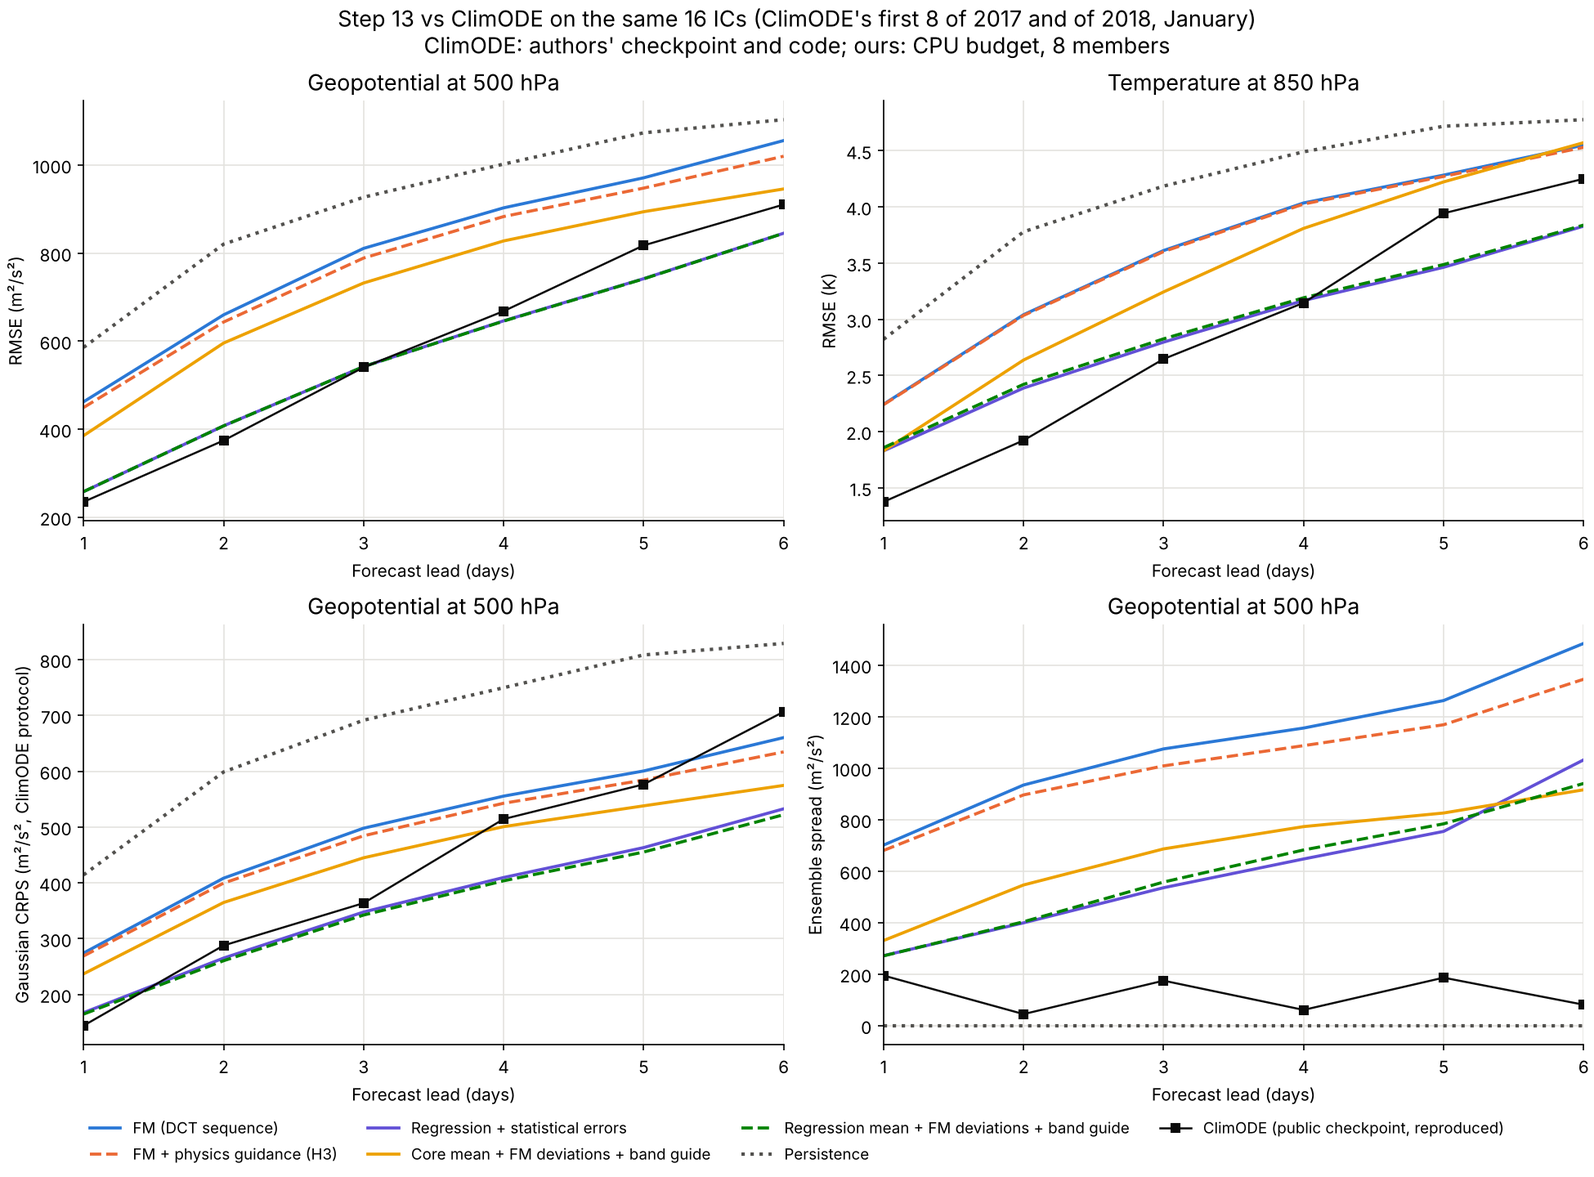
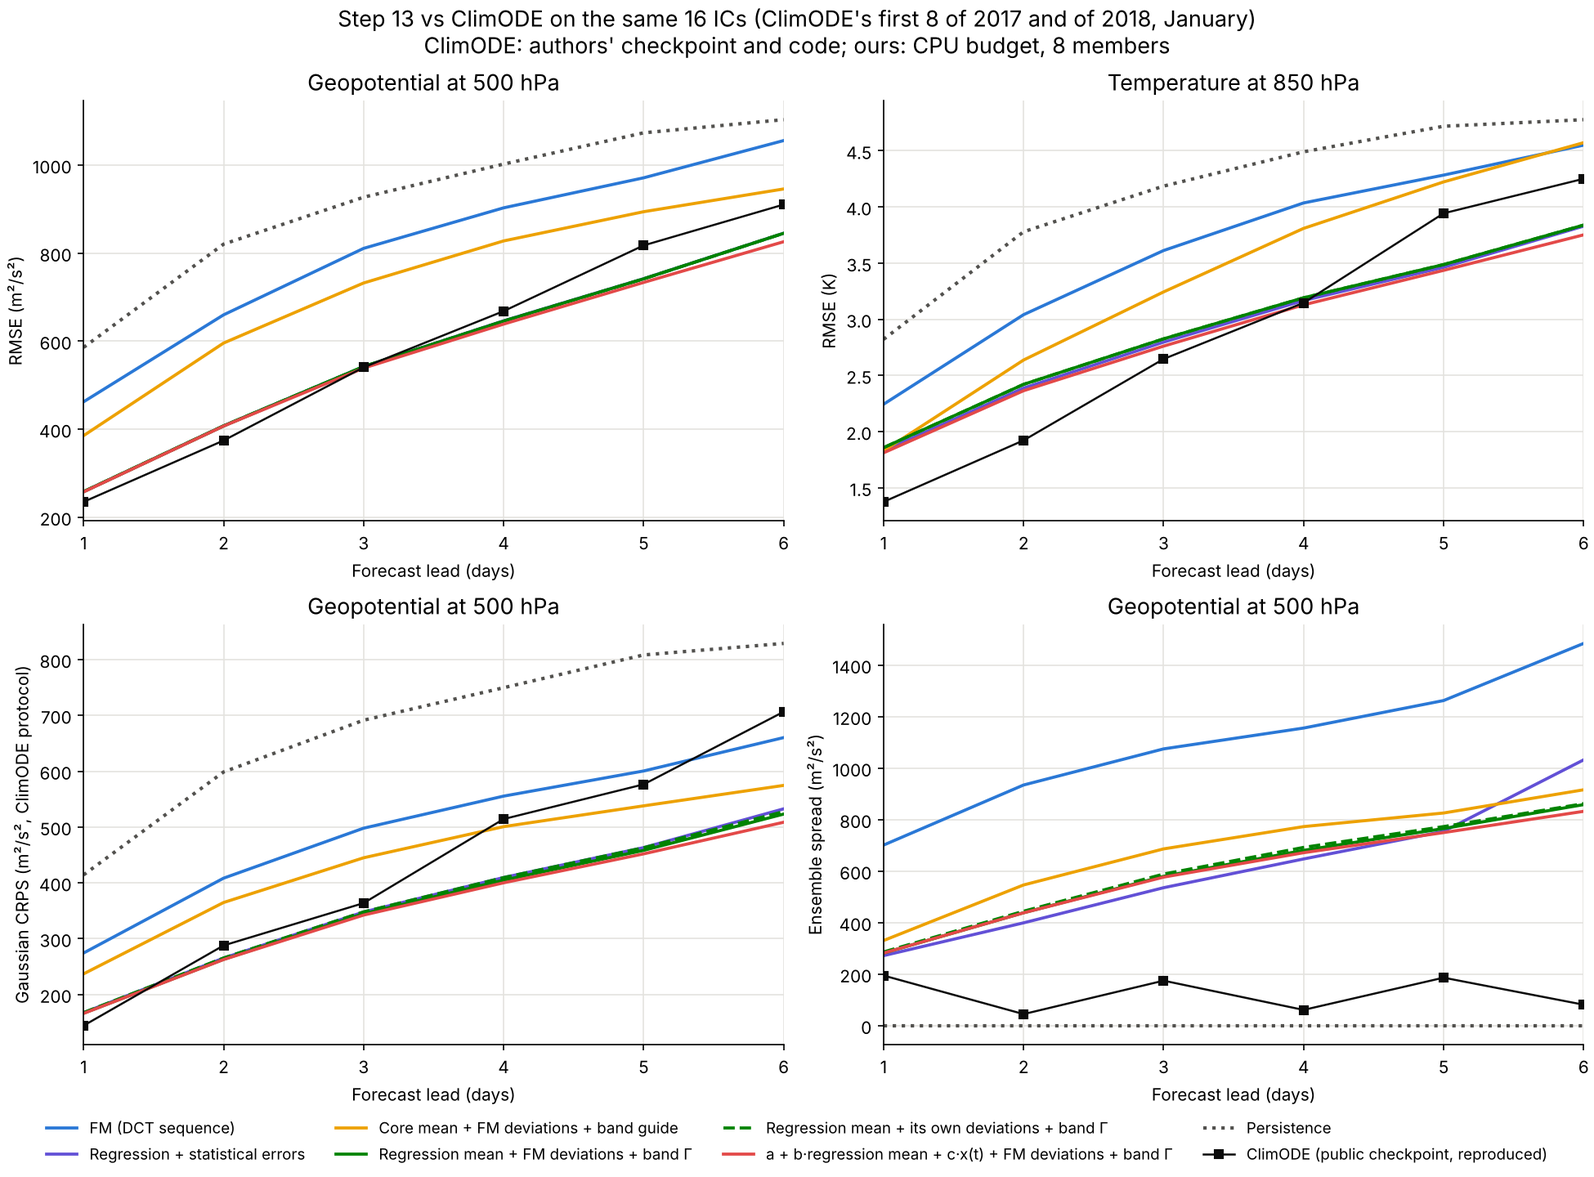
Step 13: regression-mean arms, FM deviation control, regm_band as reported model
Doc section 4.2: operator retrained on the regression ensemble (no gain on the
mean, u10/v10 only), energy guide on regression members, MBM regression mean
(regm), and the control that puts the same closed-form band Gamma on the
regression's own deviations. FM deviations win at every lead and variable
(bootstrap) by a small margin and carry the z-t and lag-24 structure.
Tables 5.1 and 5.2 gain regm_band; figures re-rendered; the system diagram
now draws regm_band as the best ensemble.

Claude-Session: https://claude.ai/code/session_01M3qvwPDycdS2QFhYHMzru8

diff --git a/scripts/plot_step13_system.py b/scripts/plot_step13_system.py
@@ -1,7 +1,7 @@
 """Step 13 training system diagram (docs/step13/fig_system.png): the three stages as built in
 run_step13_pinn.py, run_step13_seqfm.py, run_step13_guide.py and run_step13_operator.py.
-``--best`` draws fig_system_best.png: the same system with the parts the best ensemble (reg_band:
-regression mean + FM + PINN deviations + closed-form band Gamma) does not use faded.
+``--best`` draws fig_system_best.png: the same system with the parts the best ensemble (regm_band:
+a + b * regression mean + c * x(t), FM + PINN deviations, closed-form band Gamma) does not use faded.
 
     python scripts/plot_step13_system.py --out docs/step13 [--best]
 """
@@ -91,7 +91,7 @@ def stage_band(ax, y0, y1, n, name, color):
 def main(argv=None):
     p = argparse.ArgumentParser()
     p.add_argument("--out", default="docs/step13")
-    p.add_argument("--best", action="store_true", help="fade what the best ensemble (reg_band) does not use")
+    p.add_argument("--best", action="store_true", help="fade what the best ensemble (regm_band) does not use")
     a = p.parse_args(argv)
     best = FADE["on"] = a.best
     fig = plt.figure(figsize=(20, 22.4))
@@ -101,7 +101,7 @@ def main(argv=None):
     ax.axis("off")
 
     ax.text(4, 108.6, "Sequence PG-CFM", fontsize=30, weight="bold", color=TITLE, va="center")
-    ax.text(4, 105.3, "Best ensemble (reg_band): regression mean + FM + PINN deviations + closed-form band Γ.  "
+    ax.text(4, 105.3, "Best ensemble (regm_band): a + b·μ_reg + c·x(t) + FM + PINN deviations + closed-form band Γ.  "
             "Faded: parts of the system it does not use" if best else
             "Step 13 training system: PINN pretraining → sequence flow matching → calibration and "
             "operator on frozen models", fontsize=15, color=BODY, va="center")
@@ -170,11 +170,11 @@ def main(argv=None):
     sublabel(ax, cx(0) + 2, 40.8, "Stage 3 · energy guide, fitted on 2016 with every generator frozen", v)
     box(ax, 0, y, "Member deviations", ["x_m − x̄ of the FM + PINN", "members, 2-D DCT", "5 radial bands"], "op")
     box(ax, 1, y, "Band energy Γ_b", ["√(err² / ((1 + 1/M) spread²))", "per lead · variable · band",
-                                      "err of μ_reg on 2016" if best else "or learned guide (fair CRPS)"],
+                                      "err of μ* on 2016" if best else "or learned guide (fair CRPS)"],
         "energy")
     box(ax, 2, y, "Scaled deviations", ["IDCT(Γ_b · DCT(x_m − x̄))", "energy ≤ FM energy where Γ ≤ 1"], "energy")
-    box(ax, 3, y, "+ main stream μ*", ["μ* = regression mean μ_reg"] if best else
-        ["regression mean (best)", "or operator, MBM, step 12 core"], "data")
+    box(ax, 3, y, "+ main stream μ*", ["μ* = a + b·μ_reg + c·x(t)", "a, b, c per lead · variable", "fitted on 2016"] if best else
+        ["a + b·μ_reg + c·x(t) (best)", "or μ_reg, operator, step 12 core"], "data")
     box(ax, 4, y, "Calibrated ensemble", ["y_m = μ* + scaled deviation", "Doob check on the energy",
                                           "8 members, 6 days"], "energy")
     for c in range(4):
@@ -185,7 +185,7 @@ def main(argv=None):
     sublabel(ax, 4, 25.3, "Operator path · the owner's stage 3" + ("  (not used by the best ensemble)" if best else ""),
              v, dim=True)
     y = 19.5
-    box(ax, 1, y, "2016 ensembles", ["frozen FM + PINN members", "(next: regression members)"], "data", dim=True)
+    box(ax, 1, y, "2016 ensembles", ["frozen FM + PINN members", "or regression members"], "data", dim=True)
     box(ax, 2, y, "Neural operator", ["EnsembleToDeterministic FNO", "member encoder + pooling", "zero head = mean"],
         "net", dim=True)
     box(ax, 3, y, "Deterministic forecast", ["one field per lead", "alternative μ*"], "data", dim=True)
@@ -201,16 +201,16 @@ def main(argv=None):
     ax.add_patch(FancyBboxPatch((4, 4.6), 95, 6.6, boxstyle="round,pad=0,rounding_size=0.9", fc=fill, ec=edge, lw=1.6))
     ax.text(51.5, 9.2, "Inference, 2017–2018 (ClimODE's 360 ICs)", ha="center", va="center", fontsize=14,
             weight="bold", color=TITLE)
-    ax.text(51.5, 6.4, "history → regression + errors → P → member mean μ*     ·     noise → flow ODE → P → IDCT "
-            "→ deviations → Γ_b → + μ* → 8 members" if best else
-            "history → regression → μ*     ·     noise → flow ODE → P → IDCT → deviations → Γ_b → + μ* "
+    ax.text(51.5, 6.4, "history → regression + errors → P → μ_reg → a + b·μ_reg + c·x(t) = μ*     ·     noise → flow ODE → P → "
+            "IDCT → deviations → Γ_b → + μ* → 8 members" if best else
+            "history → regression → MBM → μ*     ·     noise → flow ODE → P → IDCT → deviations → Γ_b → + μ* "
             "→ 8 members     ·     ensemble → operator → deterministic", ha="center", va="center", fontsize=11.5,
             color=BODY)
     ax.plot([4, 99], [3.3, 3.3], color=RULE, lw=1.2)
     ax.text(4, 2.0, "Solid: data / loss flow.  Dashed border: weights frozen from an earlier stage.  "
             "Orange: training losses.  Purple: energy control.", fontsize=11.5, color=BODY, va="center")
-    ax.text(4, 0.4, "The FM never trains through P or Γ. Current best: regression mean + FM deviations + closed-form "
-            "band Γ (reg_band); the learned guide moves the energy to the largest band.", fontsize=11.5, color=BODY,
+    ax.text(4, 0.4, "The FM never trains through P or Γ. Current best: a + b·regression mean + c·x(t), FM deviations, "
+            "closed-form band Γ (regm_band); the learned guide moves the energy to the largest band.", fontsize=11.5, color=BODY,
             va="center")
     os.makedirs(a.out, exist_ok=True)
     path = os.path.join(a.out, "fig_system_best.png" if best else "fig_system.png")

diff --git a/docs/step13_sequence.md b/docs/step13_sequence.md
@@ -245,6 +245,48 @@ Doob이 들어가는 곳은 lead 축입니다. 멤버 편차 에너지 e_k = |x_
 4. **회귀 + 통계 오차와 비교한 FM 편차의 값**: 공정한 비교는 규모별로 보정된 닫힌 형 Γ(reg_band)입니다. 같은 회귀 평균에서 FM 편차가 통계 오차보다 z500 CRPS를 144 h 0.0351 → 0.0342로 조금 낮추고(72 h는 0.0230 → 0.0229), SSR을 lead에 고르게 하며(1.07–1.34 → 1.11–1.21), 144 h에서 작은 규모 파워 초과를 11.8 → 6.5배로, rank histogram의 평탄도 거리(TV)를 0.137 → 0.075로 줄이고, 멤버 z–t 상관을 0.40 → 0.50으로 올립니다(진짜 0.74). FM이 주는 것은 평균이 아니라 **퍼짐의 규모별·변수 간 구조**입니다. 다만 퍼짐이 사례마다 오차가 큰 곳을 따라가지는 못합니다(6.1).
 5. **Doob·에너지 단조 제약은 이 데이터에서 활성화되지 않았습니다.** 보정 후 멤버 에너지가 이미 lead에 따라 증가해서 op_mono와 op_band, core_mono와 core_band가 바이트 단위로 같았고, Doob 비율은 1.00–1.05입니다. 소유자의 에너지 제어 가설은 "깨지지 않았음"을 보인 것이지, 발산을 막아 성능을 낸 사례는 아직 아닙니다. 그런 사례는 rollout이 있는 경로(7단계식 Markov 적분이나 경로 2의 물리 시간 ODE)에서 시험해야 합니다.
 
+### 4.2 회귀 평균 쪽: 연산자에 회귀 앙상블 넣기, 회귀 멤버 위의 가이드, MBM 평균, FM 편차 대조군
+
+4.1에서 평균이 좋을수록 결과가 좋았으므로, 소유자 제안(연산자 + 에너지 처리)을 회귀 쪽에 그대로 옮겨 시험했습니다.
+
+- 연산자: 3.4의 `EnsembleToDeterministic`을 시퀀스 회귀 + 통계 오차 + 고정 PINN 앙상블(`seqregress_pinn`)로 다시 학습했습니다(`run_step13_operator.py --ens runs/step13/seqregress_pinn`, 2016 학습, 2017–2018 시험).
+- 회귀 멤버 위의 가이드: `run_step13_guide.py --ens runs/step13/seqregress_pinn`입니다. 연산자 μ*, 단조 Γ(op_mono), 학습된 가이드(guide)를 씁니다.
+- MBM 평균(`--reg-mbm`, regm): 회귀 앙상블 평균에 a + b·μ_reg + c·x(t)를 (lead, 변수, 격자점)마다 2016년에 맞춰 μ*로 씁니다. Γ는 이 μ*의 2016년 오차로 닫힌 형으로 다시 구합니다.
+- 대조군: 같은 닫힌 형 Γ를 FM 편차 대신 회귀 앙상블 자신의 편차(통계 오차 + PINN)에 씌웁니다. 평균과 Γ 공식이 같고 편차의 출처만 다르므로, 이 차이가 "회귀만으로 충분한가, FM이 필요한가"에 대한 직접 답입니다.
+
+결정론 평균 (RMSE, 360개):
+
+| μ* | z500 24 / 72 / 144 h | t850 24 / 72 / 144 h | t2m 144 h | u10 / v10 144 h |
+| --- | --- | --- | --- | --- |
+| 회귀 앙상블 평균 | 244 / 528 / 817 | 1.80 / 2.71 / 3.61 | 2.75 | 3.93 / 4.14 |
+| 연산자 (회귀 앙상블 입력) | 246 / 528 / 816 | 1.78 / 2.69 / 3.59 | 2.76 | 3.46 / 3.61 |
+| 연산자 (평균만 입력) | 246 / 528 / 814 | 1.78 / 2.68 / 3.57 | 2.75 | 3.44 / 3.61 |
+| **a + b·μ_reg + c·x(t)** | 244 / **522 / 778** | **1.76 / 2.66 / 3.45** | **2.61** | 3.68 / 3.75 |
+| (참고) ClimODE 논문 | 193 / 479 / 784 | 1.55 / 2.58 / 3.62 | 3.30 | |
+
+앙상블 (360개, 3.3과 같은 정의. 5변수 CRPS는 5변수·6 lead 평균, 정규화 fair CRPS는 4.1과 같음):
+
+| 팔 | μ* | 편차 | Γ | 정규화 fair CRPS | 5변수 CRPS | z500 CRPS 24 / 72 / 144 h | SSR z500 | 멤버 z–t 상관 144 h | z500 24 h 지연 상관 |
+| --- | --- | --- | --- | --- | --- | --- | --- | --- | --- |
+| 회귀 + 통계 오차 | 회귀 | 회귀 | 없음 | | 0.02702 | 0.0109 / 0.0230 / 0.0351 | 1.06–1.34 | 0.41 | 0.823 |
+| 회귀 op_mono | 연산자 | 회귀 | 닫힌 형, 단조 | 0.1763 | 0.02562 | 0.0110 / 0.0231 / 0.0345 | 1.12–1.23 | 0.45 | 0.825 |
+| 회귀 guide | 연산자 | 회귀 | 학습 | **0.1740** | **0.02552** | 0.0108 / 0.0228 / 0.0342 | 1.06–1.15 | 0.43 | 0.869 |
+| reg_band 대조군 | 회귀 | 회귀 | 닫힌 형 | 0.1901 | 0.02697 | 0.0109 / 0.0231 / 0.0345 | 1.12–1.23 | 0.46 | 0.825 |
+| reg_band | 회귀 | FM | 닫힌 형 | 0.1887 | 0.02682 | 0.0109 / 0.0229 / 0.0342 | 1.11–1.21 | 0.50 | 0.876 |
+| regm_band 대조군 | MBM | 회귀 | 닫힌 형 | 0.1816 | 0.02596 | 0.0109 / 0.0229 / 0.0330 | 1.14–1.23 | 0.46 | 0.830 |
+| **regm_band** | MBM | FM | 닫힌 형 | 0.1800 | 0.02580 | 0.0108 / **0.0226 / 0.0327** | 1.13–1.21 | **0.51** | 0.883 |
+| regm_guide | MBM | FM | 학습 | 0.1785 | 0.02586 | 0.0107 / 0.0224 / 0.0325 | 1.10–1.16 | 0.51 | 0.902 |
+
+진짜의 z–t 상관은 0.74, z500 24 h 지연 상관은 0.84입니다. regm_guide는 4.1과 같은 이유(학습된 가이드가 작은 규모 퍼짐을 지움, k13–32 파워 1.2–3.2배)로 보고 대상에서 뺍니다.
+
+읽은 것:
+
+1. **연산자에 회귀 앙상블을 넣어도 평균은 나아지지 않습니다.** 앙상블 입력과 평균만 입력이 같고(z500 144 h 816 대 814), 회귀 평균보다 나은 곳은 u10/v10뿐입니다(144 h u10 3.93 → 3.46). u10/v10은 KAI 모델에서 u/v1000의 선형식으로 진단하는 값이라 연산자가 그 진단을 고친 것입니다. z500·t850·t2m은 셋 다 a + b·μ_reg + c·x(t)가 가장 좋고, 144 h에서 처음으로 ClimODE 논문 수치보다 낮습니다(z500 778 대 784, t850 3.45 대 3.62).
+2. **회귀 멤버 위의 에너지 가이드는 5변수 CRPS가 가장 낮지만 이득은 u10/v10에서 옵니다.** z500 CRPS는 reg_band와 같습니다(144 h 0.0342). 소유자의 연산자 + 에너지 처리 조합은 바람 진단에서만 값이 있습니다.
+3. **대조군에서 FM 편차가 회귀 자신의 편차를 모든 lead·변수에서 이깁니다(360개 bootstrap, 30칸 모두 95% 구간이 0 위).** 다만 차이는 작습니다. 5변수 CRPS는 0.02697 → 0.02682(0.6 %), z500 144 h는 0.0345 → 0.0342입니다. 같은 닫힌 형 Γ를 씌우면 회귀 편차도 거의 보정되므로 CRPS 이득의 대부분은 Γ에서 오고, FM이 더하는 것은 **변수 간·시간 구조**입니다. 멤버 z–t 상관은 144 h 0.46 → 0.50(진짜 0.74), z500 24 h 지연 상관은 0.825 → 0.876입니다(진짜 0.84). 작은 규모 파워(1.7–6.7 대 2.2–6.5배)와 rank TV(0.076 대 0.075)는 같습니다.
+4. **MBM 평균에서도 같은 순서입니다.** regm_band가 대조군보다 5변수 CRPS 0.02596 → 0.02580, z500 144 h 0.0330 → 0.0327이고, z–t 0.46 → 0.51, 지연 상관 0.830 → 0.883입니다.
+5. **보고할 모델은 regm_band입니다**(a + b·회귀 평균 + c·x(t), FM + PINN 편차, 닫힌 형 대역 Γ). 학습 구조는 `docs/step13/fig_system_best.png`에 있습니다. ClimODE와의 짝 비교는 5.2에 있습니다.
+
 ## 5. ClimODE와의 비교
 
 ### 5.1 논문 수치 (같은 시험 초기장 360개, RMSE)
@@ -252,12 +294,13 @@ Doob이 들어가는 곳은 lead 축입니다. 멤버 편차 에너지 e_k = |x_
 | | z500 24 / 72 / 144 h | t850 24 / 72 / 144 h | t2m 24 / 72 / 144 h |
 | --- | --- | --- | --- |
 | ClimODE (논문 Table 7) | 193 / 479 / 784 | 1.55 / 2.58 / 3.62 | 1.40 / 2.75 / 3.30 |
+| **a + b·회귀 평균 + c·x(t) (regm_band의 평균)** | 244 / 522 / **778** | 1.76 / 2.66 / **3.45** | 1.42 / **2.10 / 2.61** |
 | 회귀 평균 (reg_guide의 평균) | 244 / 528 / 817 | 1.78 / 2.70 / 3.60 | 1.45 / 2.14 / 2.75 |
 | 12단계 코어 (core_guide의 평균) | 352 / 681 / 885 | 1.74 / 2.99 / 4.08 | 1.42 / 2.32 / 2.95 |
 | 3단계 연산자 (평균만 입력) | 385 / 689 / 835 | 2.03 / 3.04 / 3.55 | |
 | FM 앙상블 평균 | 443 / 778 / 997 | 2.25 / 3.45 / 4.19 | 1.97 / 2.91 / 3.37 |
 
-ClimODE는 GPU 300 epoch, 2006–2015 학습이고, 여기는 CPU 20–70분, 2012–2015 학습입니다. z500에서 회귀가 차이를 24 h 51, 72 h 49, 144 h 33까지 줄였습니다. t850 144 h는 비슷하고(3.60 대 3.62), t2m은 72 h 이후 ClimODE보다 낫습니다.
+ClimODE는 GPU 300 epoch, 2006–2015 학습이고, 여기는 CPU 20–70분, 2012–2015 학습입니다. z500에서 회귀가 차이를 24 h 51, 72 h 49, 144 h 33까지 줄였고, 회귀 평균에 a + b·μ + c·x(t)를 씌우면(4.2) 144 h에서 ClimODE보다 낮아집니다(z500 778 대 784, t850 3.45 대 3.62). t2m은 72 h 이후 ClimODE보다 낫습니다. 24 h와 72 h는 아직 ClimODE가 낫습니다(z500 51, 43).
 
 ### 5.2 같은 초기장 짝 비교 (ClimODE 재현 16개, 1월, 95% bootstrap 구간)
 
@@ -270,9 +313,12 @@ ClimODE 공개 체크포인트를 원저자 코드로 돌린 11단계 재현(각
 | 12단계 코어 + FM 편차 + 가이드 | +150 / +192 / +35 [−10, 78] | +0.0059 / +0.0052 / **−0.0084** | +0.45 / +0.32 |
 | **회귀 평균 + FM 편차 + 가이드** | +23 / **+2 [−20, 21]** / **−65 [−109, −22]** | +0.0013 / **−0.0014 [−0.0025, −0.0003]** / **−0.0118** | +0.48 / **−0.41** |
 | 회귀 + 통계 오차 | +23 / +2 / −65 | +0.0015 / −0.0010 [−0.0022, 0.0002] / −0.0111 | +0.45 / −0.42 |
+| **regm_band (a + b·회귀 평균 + c·x(t), FM 편차, 닫힌 형 Γ)** | +23 / **−2 [−23, 18]** / **−84 [−125, −44]** | +0.0014 / **−0.0014 [−0.0025, −0.0001]** / **−0.0126 [−0.0156, −0.0095]** | +0.44 / **−0.50** |
+| regm_band 대조군 (같은 평균과 Γ, 회귀 자신의 편차) | +23 / −2 / −84 | +0.0015 / −0.0011 [−0.0023, 0.0001] / −0.0123 | +0.44 / −0.50 |
 
-- **회귀 평균 + FM 편차 + 대역 가이드가 같은 초기장에서 ClimODE와 72 h에 비기고(z500 RMSE), CRPS로는 72 h부터 이깁니다.** 144 h에서는 RMSE와 CRPS 모두 이깁니다. t2m은 모든 lead에서 낫습니다(ClimODE의 t2m은 persistence보다 나쁨, 11단계).
-- 24 h는 아직 ClimODE가 낫습니다(z500 +23, t850 +0.48 K).
+- **regm_band가 같은 초기장에서 ClimODE와 72 h에 비기고(z500 RMSE −2, 구간이 0을 포함), CRPS로는 72 h부터 이깁니다.** 144 h에서는 RMSE(−84)와 CRPS(−0.0126) 모두 이기고, t850 144 h도 0.50 K 낮습니다. t2m은 모든 lead에서 낫습니다(ClimODE의 t2m은 persistence보다 나쁨, 11단계).
+- 같은 평균과 Γ에 회귀 자신의 편차를 쓰면 72 h CRPS 구간이 0을 넘습니다([−0.0023, 0.0001]). 16개라는 작은 표본에서 72 h 우위가 구간으로 확인되는 것은 FM 편차일 때뿐이지만, 두 팔의 차이(0.0003) 자체는 작습니다.
+- 24 h는 아직 ClimODE가 낫습니다(z500 +23, t850 +0.44 K).
 - 한계: 16개 모두 1월이고, 재현 ClimODE는 논문보다 약합니다(24 h 235 대 193). 논문 수치와의 차이(5.1)가 더 공정한 거리입니다.
 
 ## 6. 그래프
@@ -280,13 +326,14 @@ ClimODE 공개 체크포인트를 원저자 코드로 돌린 11단계 재현(각
 요청하신 형식(lead별 선, persistence 점선)입니다. 저장한 앙상블에는 ClimODE 5변수만 있어 "66채널 전체"와 "q850" 칸 대신 5변수 정규화 RMSE, z500·t850 RMSE, z500·t850 CRPS, z500 앙상블 퍼짐을 그렸습니다.
 
 - `docs/step13/fig_stage2.png`: 2단계 팔 (H1, H2, H3, 대조군), 360개 초기장
-- `docs/step13/fig_calibration.png`: 보정 가이드 팔 (색 = 평균의 출처, 점선 = 학습된 가이드), 360개 초기장
-- `docs/step13/fig_climode_paired.png`: ClimODE 재현과 같은 16개 초기장에서 z500 RMSE, t850 RMSE, z500 Gaussian CRPS(ClimODE 프로토콜), z500 퍼짐
+- `docs/step13/fig_calibration.png`: 보정 가이드 팔 (색 = 평균의 출처, 점선 = 학습된 가이드, 빨강 = regm), 360개 초기장
+- `docs/step13/fig_climode_paired.png`: ClimODE 재현과 같은 16개 초기장에서 z500 RMSE, t850 RMSE, z500 Gaussian CRPS(ClimODE 프로토콜), z500 퍼짐. 선은 FM, 회귀, 코어 + 가이드, reg_band(FM 편차 실선, 회귀 편차 점선), regm_band입니다.
 
 앞의 두 장에서 ClimODE 선은 논문 Table 7(같은 360개 초기장)이고, 논문에는 RMSE만 있어 RMSE 칸에만 있습니다. CRPS와 퍼짐의 ClimODE 비교는 세 번째 그림에 있습니다. ClimODE의 예측 표준편차는 z500에서 50–200 m²/s²로 오차(235–910)보다 훨씬 작아서, 긴 lead의 CRPS가 나빠지는 원인이 그림으로 보입니다.
 
     python scripts/plot_step13.py --era5 <era5_data> --scores runs/step13/score_a.json runs/step13/score_guide.json \
-        runs/step13/score_reg.json --paired runs/step13/climode_paired.json --out docs/step13
+        runs/step13/score_reg.json runs/step13/score_regm.json --paired runs/step13/climode_paired.json \
+        runs/step13/climode_paired_regm.json runs/step13/climode_paired_regl.json --out docs/step13
 
 ### 6.1 모델 시각화: 지도와 에너지 (`scripts/plot_step13_maps.py`)
 
@@ -304,9 +351,9 @@ ClimODE 공개 체크포인트를 원저자 코드로 돌린 11단계 재현(각
 
 1. **FM이 회귀에 진다(H1 기각).** 학습량 문제인지 구조 문제인지는 같은 설정으로 FM을 10배 이상 학습해야 가를 수 있습니다. 13단계 스크립트는 아직 CPU 전용이라(`--device` 없음) GPU 실행에는 장치 옵션을 먼저 넣어야 합니다.
 2. **PINN은 정역학만 고친다.** 저차 8×16 모드 제한이 원인입니다. 모드를 넓히면 수축 게이트를 다시 재야 합니다.
-3. **연산자의 입력이 FM 평균 수준에 묶여 있다.** 3.4의 연산자를 회귀 앙상블에 학습하면 연산자 + 회귀 + FM 편차 조합을 시험할 수 있습니다.
+3. **연산자가 평균에 더하는 것이 없다(4.2).** 회귀 앙상블로 다시 학습해도 평균만 넣은 연산자와 같고, u10/v10 진단만 고칩니다. z500·t850·t2m에서는 a + b·μ + c·x(t)가 연산자보다 낫습니다. 연산자가 값을 내려면 평균이 못 보는 입력(예: 66채널 전체, 멤버 사이의 공분산)을 써야 합니다.
 4. **Doob 제약이 활성화될 상황이 없었다.** rollout이 있는 경로(물리 시간 ODE, 경로 2)에서 시험해야 소유자의 에너지 제어 가설의 효과를 볼 수 있습니다.
 5. **hard constraint 전에 q·tcwv 값의 11–14%가 음수.** clamp로 막았지만 FM과 회귀 모두 양수성을 배우지 못했습니다.
 6. **퍼짐이 흐름에 의존하지 않는다(6.1).** 대역 Γ는 lead·대역·변수별 상수라 공간 위치를 모릅니다. 다음 시험 후보: Γ를 위도대나 평균장의 기울기·소용돌이도로 조건화하기, 또는 FM 편차 자체의 사례 의존성을 높이기(조건 입력에 x_{k-1} 추가, 더 긴 학습).
-7. 아직 큐에 있는 것: 회귀 앙상블을 넣은 연산자와 회귀 멤버 위의 에너지 가이드(같은 가이드를 회귀 자신의 편차에 씌운 대조군 포함). 끝나면 이 문서에 더합니다.
+7. **FM 편차의 이득이 작다(4.2).** 같은 닫힌 형 Γ를 씌우면 회귀 자신의 편차도 거의 보정되어, FM이 CRPS에서 이기는 폭은 0.6 % 안팎입니다(구간은 0 위). FM의 값은 변수 간·시간 구조(z–t, 지연 상관)에 있으므로, 논문에서는 이 구조 지표와 대조군을 함께 보고해야 합니다. 퍼짐이 흐름에 의존하지 않는 문제(6)를 풀면 이 폭이 커지는지가 다음 시험입니다.
 
